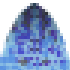
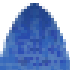
Another graphic update

diff --git a/main.py b/main.py
@@ -15,6 +15,8 @@ SCORE_SPACE = 50
 DIMENSION = 20
 SQ_SIZE = WIDTH // DIMENSION
 screen = p.display.set_mode((WIDTH, HEIGHT + SCORE_SPACE))
+icon = p.image.load("images/icon.png")
+p.display.set_icon(icon)
 p.display.set_caption('Mocha Snake')
 clock = p.time.Clock()
 bg = p.image.load("images/game_bg.png")
@@ -33,11 +35,11 @@ def get_font(size):
 def printScore(score):
     p.font.init()
     font = get_font(55)
-    text = font.render(f'Score: ', True, '#1AB1E5')
+    text = font.render(f'Score: ', True, '#7295CD')
     screen.blit(text, (10,690))
     font2 = p.font.SysFont('Verdana', 46)
     font2.set_bold(True)
-    text2 = font2.render(f'{score}', True, '#1AB1E5')
+    text2 = font2.render(f'{score}', True, '#7295CD')
     screen.blit(text2, (225, 695))
 
 

diff --git a/README.md b/README.md
@@ -1,2 +1,14 @@
-# Mocha-Snake
-Snake game in pygame but it is coffee themed
+# Mocha Snake
+Coffee themed snake game in python.
+
+# Requirements:
+Python 3.10 and an interpreter of choice 
+
+Pygame library
+
+# How to run:
+ Clone the repository to your computer, open the folder containing the repository.
+ 
+ ```pip install -r requirements.txt```
+ 
+ ```python3 main.py```
